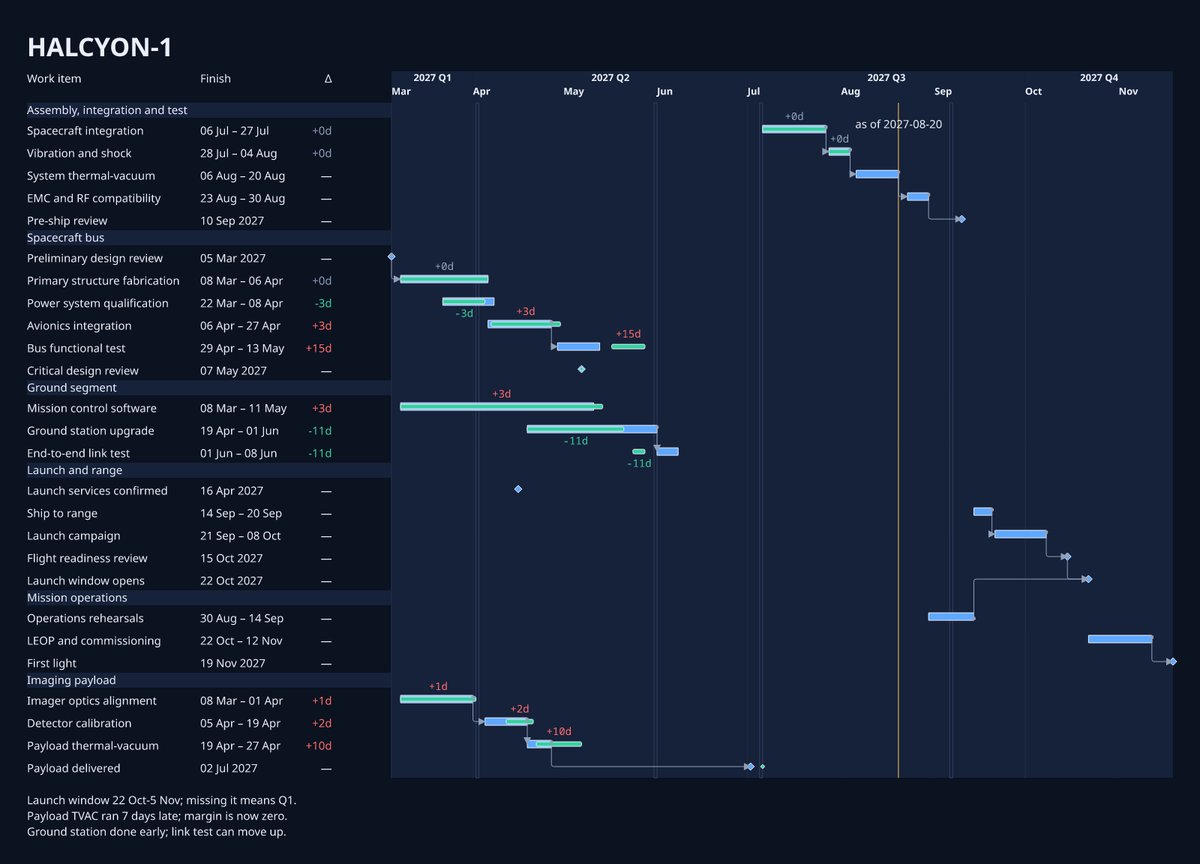
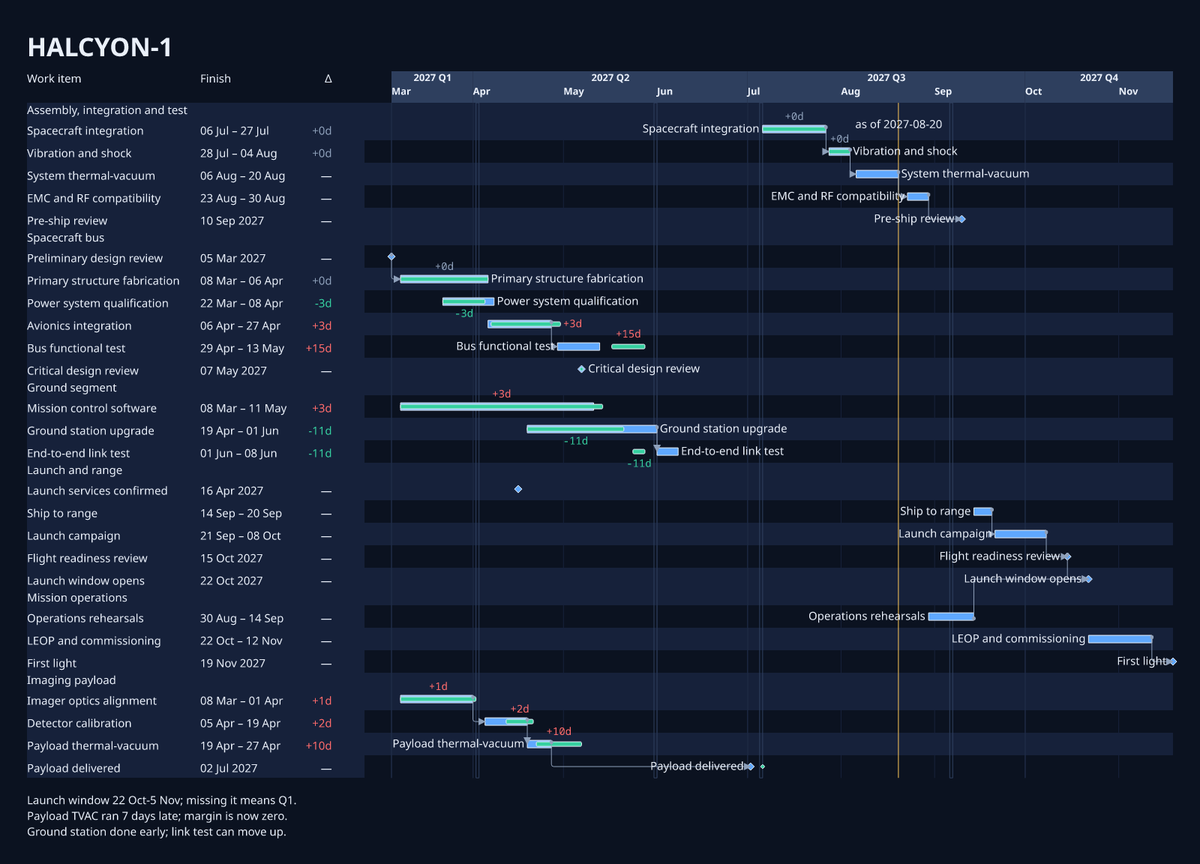
presets: add row guides and a visible axis boundary to control-room-dark
Row stripes now run from the table to the timeline's right edge, and each
bar is labelled with its name at its end, so a bar on the right of a wide
timeline can be matched to its task. The axis band is painted in neutral
instead of the group-band colour, so the axis visibly ends where the plot
begins. YAML only.

Refs #470

diff --git a/docs/research/presentation/preset-tuning/control-room-dark/README.md b/docs/research/presentation/preset-tuning/control-room-dark/README.md
@@ -38,3 +38,15 @@ HALCYON-1 renders with no warnings at 1600 × 900. The starter keeps its one pre
 
 - **Missing-actual marks appear on work that is not due yet.** With `missingActual` in the facets, every item without an observation gets a hollow capsule at its bar end, including items planned to finish after the as-of date. Those are not missing; they are in the future. The preset leaves the facet out; the mark should only apply to items whose planned finish is on or before as-of.
 - **Dependency lines start with an arrowhead by default.** In 10 of the 11 shipped Themes, `relationSourceTerminal` is bound to the same filled triangle as the target end: `briefing`, which the bare `chrona render` default uses, plus `print`, `wallboard`, `elevated-light` and the other corpus themes. Only `controller-z/executive-light` uses a circle. A small circle or no mark at the source is the common convention; an arrowhead at both ends reads as a two-way relation.
+
+## Update: row guides and a visible axis boundary
+
+Added after review feedback. On a wide timeline, a bar on the right could only be matched to its task by following the row back to the table, and the axis blended into the plot.
+
+| Member | Change | Vocabulary used |
+| --- | --- | --- |
+| View + Layout | alternating row stripes run from the table to the timeline's right edge; group bands are kept to the table | `backgroundDecoration.rows: alternate`, `backgroundExtents.rowBand: both, groupBand: table` |
+| View | each bar is labelled with its name at its end, in its own row, as well as in the table | `visibility.labels.placement: plot, side: end`, fallback `[end, start, suppress]` |
+| Theme | the axis band is painted in `neutral` at full opacity, not the group-band colour, so the axis ends visibly where the plot begins | `colorBindings.axis-band-decoration.fill`, `roles.axis-band-decoration.opacity` |
+
+HALCYON-1 still renders with no warnings. The limits met while doing this are recorded in the `executive-light` README (items 2 and 4–6) and in #470: no axis baseline rule, labels not avoiding dependency lines, suppressed labels leaving no trace, and plot-and-table labels not being a declared choice.
